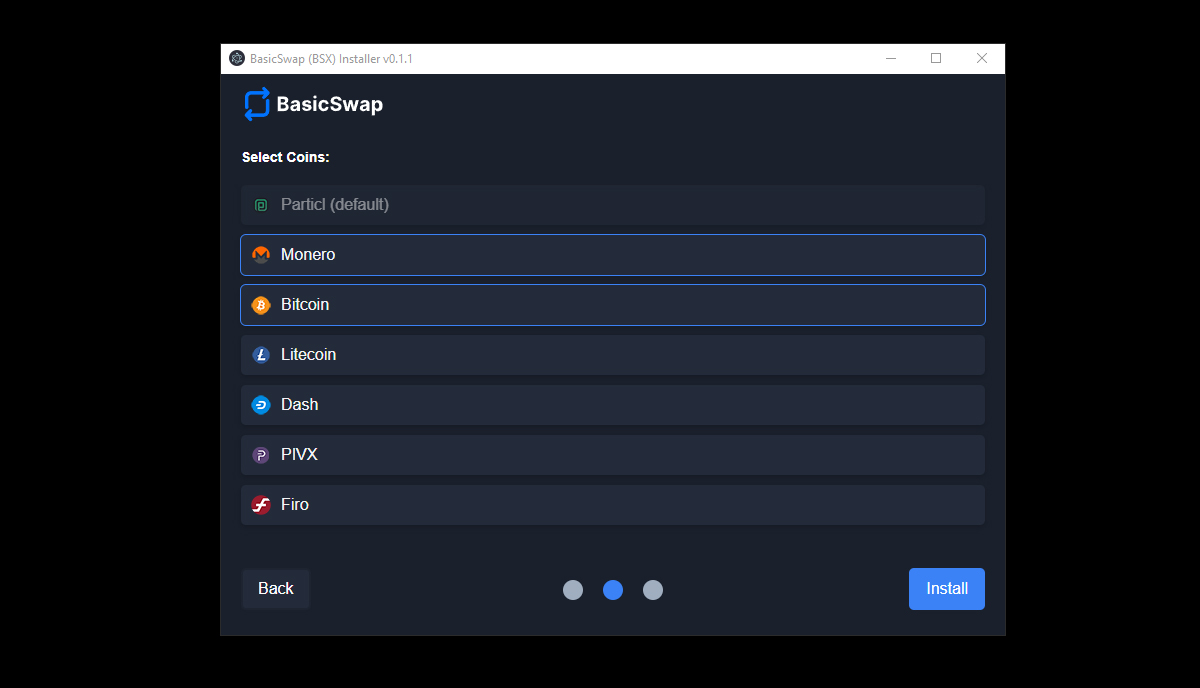
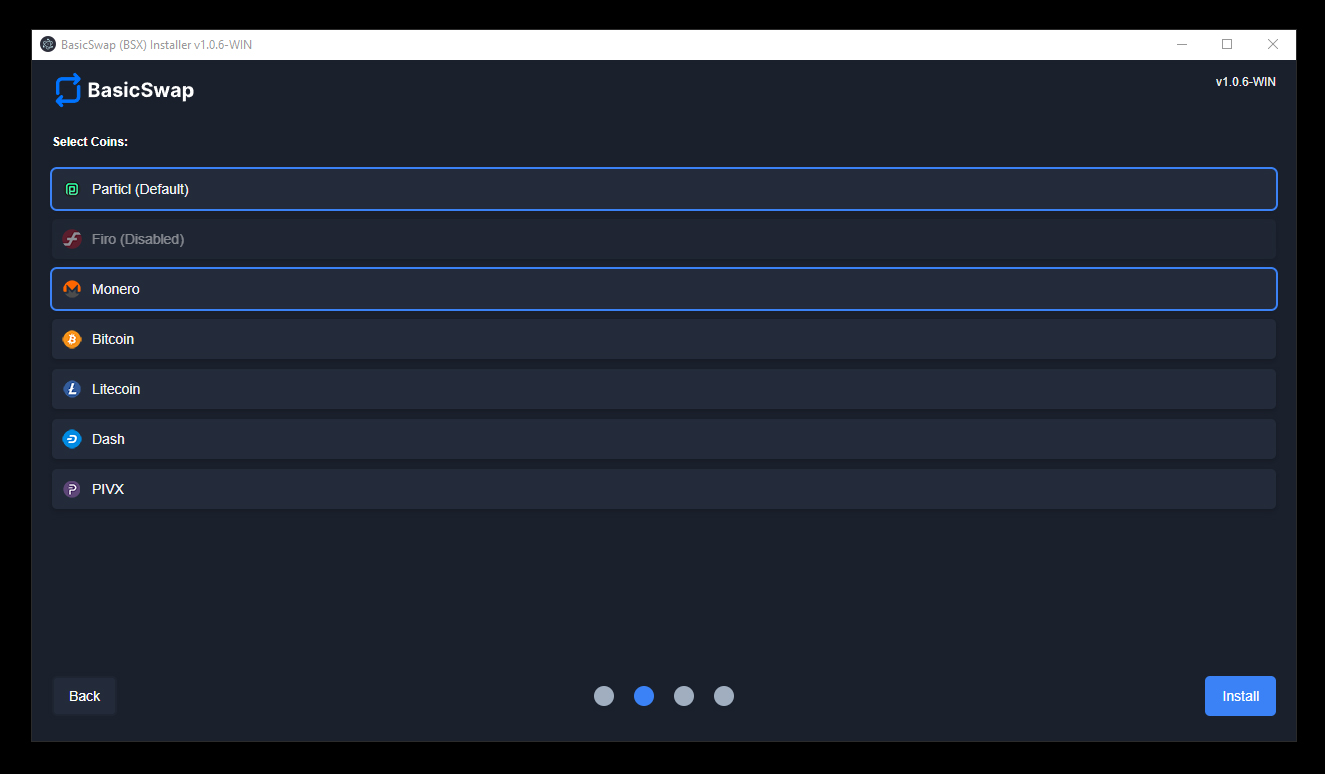
UI/CLI: Fixed win10/11 bug with Installing Dependencies.

diff --git a/electron-gui/src/main.js b/electron-gui/src/main.js
@@ -16,6 +16,7 @@ function createWindow() {
             preload: path.join(__dirname, 'renderer/preload.js'),
         },
     });
+
     mainWindow.loadURL(
         url.format({
             pathname: path.join(__dirname, 'renderer/index.html'),
@@ -23,10 +24,20 @@ function createWindow() {
             slashes: true,
         })
     );
+
+    // Prevent the DevTools from opening
+    mainWindow.webContents.on("devtools-opened", () => {
+        mainWindow.webContents.closeDevTools();
+    });
+
+    // Remove the default menu bar
+    mainWindow.setMenu(null);
+
     mainWindow.on('closed', function () {
         mainWindow = null;
     });
 }
+
 
 app.on('ready', createWindow);
 
@@ -51,6 +62,7 @@ ipcMain.handle('select-directory', async (event) => {
         properties: ['openDirectory']
     });
 });
+
 
 ipcMain.on('execute-powershell', (event, installPath, selectedCoins) => {
     const scriptPath = path.join(app.getAppPath(), 'build', 'basicswap-install-windows.ps1');

diff --git a/electron-gui/src/renderer/index.html b/electron-gui/src/renderer/index.html
@@ -2,7 +2,7 @@
 <html lang="en">
 <head>
   <meta charset="UTF-8">
-  <title>BasicSwap (BSX) Installer v1.0.0-WIN</title>
+  <title>BasicSwap (BSX) Installer v1.0.6-WIN</title>
   <link rel="stylesheet" href="css/style.css">
 </head>
 <body>
@@ -64,7 +64,7 @@
           cd <span id="INSTALL_PATH_1"></span>
         </code>
         <code>
-          basicswap-run --datadir=<span id="INSTALL_PATH_2"></span>\coindata
+          basicswap-run --datadir="<span id="INSTALL_PATH_2"></span>\coindata"
         </code>
       </div>
       <div id="instruction-box" class="xmr-height-enabled">
@@ -90,7 +90,7 @@
       </div>
     </div>
     
-    <div class="version">v1.0.0-WIN</div>
+    <div class="version">v1.0.6-WIN</div>
   </div>
   <script src="renderer.js"></script>
 </body>

diff --git a/README.md b/README.md
@@ -1,16 +1,86 @@
 ![BasicswapDEX Preview](.github-readme/basicswap_header.jpg)
 
-# BasicSwap (BSX) Installer
+# BasicSwap (BSX) Installer (WIN 10/11)
 
-Introducing BasicSwap (BSX) - A User-Friendly Installer for Linux, OSX, WIN.
+Introducing BasicSwap (BSX) - A User-Friendly Installer for WIN 10/11. (Linux, OSX, coming soon)
 
 Are you looking for a hassle-free way to install [BasicSwap](https://basicswapdex.com) (BSX) without having to use the command-line interface (CLI)? We've got you covered! With our user-friendly installer, you can easily set up BasicSwap on your computer, even if you're not a CLI enthusiast/non-technical. 
 
+Please ensure that you execute the .exe file with administrative privileges.
+
 # WIP Todo:
 1. Comprehensive Testing across Multiple Platforms
-2. Fix APP Icons (win/osx/linux)
-3. Code Optimization
-4. Upgraded Functionality
-5. Enhanced Style for Error and Confirmation Pop-ups:
-6. Finalize preparations for release.
-7. Add Releases on github (exe, zip)
+2. Make version for OSX/Linux. 
+
+# 🛠 Installation Guide for Node.js, npm, Yarn, and basicswap-installer Build
+
+This README provides step-by-step instructions on how to install Node.js, npm, Yarn, and build the Windows release for the `basicswap-installer`.
+
+## 📋 Table of Contents
+
+- [Installing Node.js and npm](#installing-nodejs-and-npm)
+- [Installing Yarn](#installing-yarn)
+- [Building the basicswap-installer for Windows](#building-the-basicswap-installer-for-windows)
+
+## 🚀 Installing Node.js and npm
+
+1. **Visit the Node.js Downloads Page**:
+   - Navigate to [Node.js Downloads](https://nodejs.org/en/download/).
+
+2. **Select the Appropriate Version**:
+   - Opt for the **LTS (Long Term Support)** version for stability. If you want the latest features, choose the Current version.
+   - Download the installer suitable for your OS (Windows or Linux).
+
+3. **Run the Installer**:
+   - Launch the installer you downloaded.
+   - Follow the on-screen instructions. Ensure npm is selected during the installation process.
+   - Finish the installation.
+
+4. **Verify the Installation**:
+   - Open a terminal or command prompt.
+   - Verify Node.js with: 
+     ```bash
+     node -v
+     ```
+   - Verify npm with:
+     ```bash
+     npm -v
+     ```
+
+## 📦 Installing Yarn
+
+1. **Using npm**:
+   - Now that npm is installed (it comes bundled with Node.js), use it to globally install Yarn:
+     ```bash
+     npm install -g yarn
+     ```
+
+2. **For Windows Users**:
+   - If you're using **Chocolatey**, install Yarn with:
+     ```bash
+     choco install yarn
+     ```
+
+4. **Verify Yarn Installation**:
+   - In your terminal or command prompt, verify Yarn using:
+     ```bash
+     yarn --version
+     ```
+
+## 🖥 Building the basicswap-installer for Windows
+
+1. **Navigate to the Project Directory**:
+   - `cd path_to_your_project_directory`
+
+2. **Install Dependencies**:
+   - Execute the following command to install required dependencies:
+     ```bash
+     yarn install
+     ```
+
+3. **Build the Windows Release**:
+   - Use the provided script in `package.json` to build the Windows version:
+     ```bash
+     yarn run package-win
+     ```
+   - The packaged application will be available in the `release-builds` directory with builds for both the 32-bit (ia32) and 64-bit (x64) architectures.
